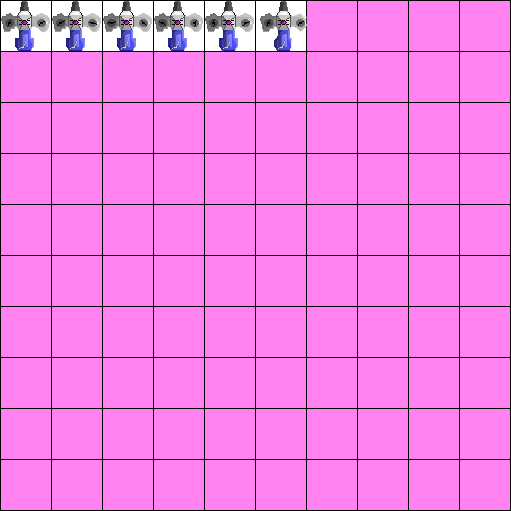
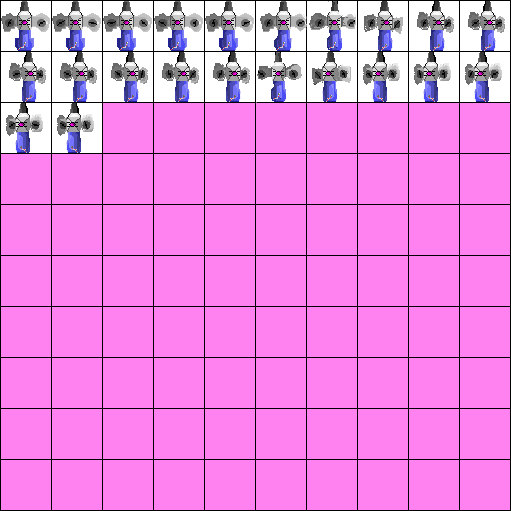
changed player sprite slowed it down moved some stuff around

Changed region(s): [[0.0, 0.0, 0.998, 0.3229]]

diff --git a/Marchgame/org.tuxedofish.marchgame/terrain/Parser.java b/Marchgame/org.tuxedofish.marchgame/terrain/Parser.java
@@ -11,6 +11,8 @@ import javax.imageio.ImageIO;
 import org.lwjgl.opengl.Display;
 import org.lwjgl.util.vector.Vector2f;
 
+import utils.MathUtils;
+
 public class Parser {
 	public ArrayList<Block> parseFile(File lvl, Vector2f pos) {
 		try {
@@ -80,31 +82,95 @@ public class Parser {
 				if(new Color(lvl.getRGB(j, i)).equals(new Color(10, 150, 10))) {
 					blocks.add(new Block(pos.x + ((float)(j*b.getWidth())/Display.getWidth()), pos.y + ((float)(i*b.getHeight())/Display.getHeight()), 14, 50, 50));
 				}
+				if(new Color(lvl.getRGB(j, i)).equals(new Color(185, 255, 255))) {
+					blocks.add(new Block(pos.x + ((float)(j*b.getWidth())/Display.getWidth()), pos.y + ((float)(i*b.getHeight())/Display.getHeight()), 22, 50, 50));
+				}
+				if(new Color(lvl.getRGB(j, i)).equals(new Color(200, 255, 255))) {
+					blocks.add(new Block(pos.x + ((float)(j*b.getWidth())/Display.getWidth()), pos.y + ((float)(i*b.getHeight())/Display.getHeight()), 23, 50, 50));
+				}
+				if(new Color(lvl.getRGB(j, i)).equals(new Color(240, 255, 255))) {
+					blocks.add(new Block(pos.x + ((float)(j*b.getWidth())/Display.getWidth()), pos.y + ((float)(i*b.getHeight())/Display.getHeight()), 24, 50, 50));
+				}
+				if(new Color(lvl.getRGB(j, i)).equals(new Color(180, 255, 255))) {
+					blocks.add(new Block(pos.x + ((float)(j*b.getWidth())/Display.getWidth()), pos.y + ((float)(i*b.getHeight())/Display.getHeight()), 25, 50, 50));
+				}
+				if(new Color(lvl.getRGB(j, i)).equals(new Color(160, 255, 255))) {
+					blocks.add(new Block(pos.x + ((float)(j*b.getWidth())/Display.getWidth()), pos.y + ((float)(i*b.getHeight())/Display.getHeight()), 26, 50, 50));
+				}
+				if(new Color(lvl.getRGB(j, i)).equals(new Color(120, 255, 255))) {
+					blocks.add(new Block(pos.x + ((float)(j*b.getWidth())/Display.getWidth()), pos.y + ((float)(i*b.getHeight())/Display.getHeight()), 27, 50, 50));
+				}
+				if(new Color(lvl.getRGB(j, i)).equals(new Color(80, 255, 255))) {
+					blocks.add(new Block(pos.x + ((float)(j*b.getWidth())/Display.getWidth()), pos.y + ((float)(i*b.getHeight())/Display.getHeight()), 28, 50, 50));
+				}
+				if(new Color(lvl.getRGB(j, i)).equals(new Color(50, 255, 255))) {
+					blocks.add(new Block(pos.x + ((float)(j*b.getWidth())/Display.getWidth()), pos.y + ((float)(i*b.getHeight())/Display.getHeight()), 29, 50, 50));
+				}
+				if(new Color(lvl.getRGB(j, i)).equals(new Color(20, 255, 255))) {
+					blocks.add(new Block(pos.x + ((float)(j*b.getWidth())/Display.getWidth()), pos.y + ((float)(i*b.getHeight())/Display.getHeight()), 30, 50, 50));
+				}
+				if(new Color(lvl.getRGB(j, i)).equals(new Color(255, 160, 160))) {
+					blocks.add(new Block(pos.x + ((float)(j*b.getWidth())/Display.getWidth()), pos.y + ((float)(i*b.getHeight())/Display.getHeight()), 31, 50, 50));
+				}
+				if(new Color(lvl.getRGB(j, i)).equals(new Color(112, 35, 84))) {
+					blocks.add(new Block(pos.x + ((float)(j*b.getWidth())/Display.getWidth()), pos.y + ((float)(i*b.getHeight())/Display.getHeight()), 1, 50, 50));
+					blocks.add(new Block(pos.x + ((float)(j*b.getWidth())/Display.getWidth()), pos.y + ((float)(i*b.getHeight())/Display.getHeight()), 32, 50, 50));
+				}
+				if(new Color(lvl.getRGB(j, i)).equals(new Color(255, 216, 241))) {
+					blocks.add(new Block(pos.x + ((float)(j*b.getWidth())/Display.getWidth()), pos.y + ((float)(i*b.getHeight())/Display.getHeight()), 1, 50, 50));
+					blocks.add(new Block(pos.x + ((float)(j*b.getWidth())/Display.getWidth()), pos.y + ((float)(i*b.getHeight())/Display.getHeight()), 33, 50, 50));
+				}
+				if(new Color(lvl.getRGB(j, i)).equals(new Color(248, 124, 144))) {
+					blocks.add(new Block(pos.x + ((float)(j*b.getWidth())/Display.getWidth()), pos.y + ((float)(i*b.getHeight())/Display.getHeight()), 1, 50, 50));
+					blocks.add(new Block(pos.x + ((float)(j*b.getWidth())/Display.getWidth()), pos.y + ((float)(i*b.getHeight())/Display.getHeight()), 34, 50, 50));
+				}
+				if(new Color(lvl.getRGB(j, i)).equals(new Color(255, 6, 241))) {
+					blocks.add(new Block(pos.x + ((float)(j*b.getWidth())/Display.getWidth()), pos.y + ((float)(i*b.getHeight())/Display.getHeight()), 1, 50, 50));
+					blocks.add(new Block(pos.x + ((float)(j*b.getWidth())/Display.getWidth()), pos.y + ((float)(i*b.getHeight())/Display.getHeight()), 35, 50, 50));
+				}
+				if(new Color(lvl.getRGB(j, i)).equals(new Color(135, 0, 86))) {
+					blocks.add(new Block(pos.x + ((float)(j*b.getWidth())/Display.getWidth()), pos.y + ((float)(i*b.getHeight())/Display.getHeight()), 1, 50, 50));
+					blocks.add(new Block(pos.x + ((float)(j*b.getWidth())/Display.getWidth()), pos.y + ((float)(i*b.getHeight())/Display.getHeight()), 43, 50, 50));
+				}
+				if(new Color(lvl.getRGB(j, i)).equals(new Color(106, 0, 67))) {
+					blocks.add(new Block(pos.x + ((float)(j*b.getWidth())/Display.getWidth()), pos.y + ((float)(i*b.getHeight())/Display.getHeight()), 1, 50, 50));
+					blocks.add(new Block(pos.x + ((float)(j*b.getWidth())/Display.getWidth()), pos.y + ((float)(i*b.getHeight())/Display.getHeight()), 41, 50, 50));
+				}
+				if(new Color(lvl.getRGB(j, i)).equals(new Color(255, 0, 160))) {
+					blocks.add(new Block(pos.x + ((float)(j*b.getWidth())/Display.getWidth()), pos.y + ((float)(i*b.getHeight())/Display.getHeight()), 1, 50, 50));
+					blocks.add(new Block(pos.x + ((float)(j*b.getWidth())/Display.getWidth()), pos.y + ((float)(i*b.getHeight())/Display.getHeight()), 42, 50, 50));
+				}
+				if(new Color(lvl.getRGB(j, i)).equals(new Color(255, 146, 215))) {
+					blocks.add(new Block(pos.x + ((float)(j*b.getWidth())/Display.getWidth()), pos.y + ((float)(i*b.getHeight())/Display.getHeight()), 1, 50, 50));
+					blocks.add(new Block(pos.x + ((float)(j*b.getWidth())/Display.getWidth()), pos.y + ((float)(i*b.getHeight())/Display.getHeight()), 40, 50, 50));
+				}
 			}
 		}
 		float w = 50.0f/Display.getWidth();
 		float h = 50.0f/Display.getHeight();
+		MathUtils u = new MathUtils();
 		for(int i=0; i<blocks.size(); i++) {
 			if(blocks.get(i).getTexid() == 15) {
+				int texid = blocks.get(i).getTexid();
 				boolean left = false, right = false, top = false, bottom = false;
 				for(int k=0; k<blocks.size(); k++) {
-					if(blocks.get(k).getTexid() >= 15 && blocks.get(k).getTexid() <= 21) {
-						if(blocks.get(k).y == blocks.get(i).y) {
-							if(blocks.get(k).x == blocks.get(i).x + w) right = true;
-							if(blocks.get(k).x == blocks.get(i).x - w) left = true;
+					if(blocks.get(k).getTexid() >= texid && blocks.get(k).getTexid() <= texid+6) {
+						if(u.closeEnough(blocks.get(k).y, blocks.get(i).y, 0.001f)) {
+							if(u.closeEnough(blocks.get(k).x, blocks.get(i).x + w, 0.001f)) right = true;
+							if(u.closeEnough(blocks.get(k).x, blocks.get(i).x - w, 0.001f)) left = true;
 						}
-						if(blocks.get(k).x == blocks.get(i).x) {
-							if(blocks.get(k).y == blocks.get(i).y - h) bottom = true;
-							if(blocks.get(k).y == blocks.get(i).y + h) top = true;
+						if(u.closeEnough(blocks.get(k).x, blocks.get(i).x, 0.001f)) {
+							if(u.closeEnough(blocks.get(k).y, blocks.get(i).y - h, 0.001f)) bottom = true;
+							if(u.closeEnough(blocks.get(k).y, blocks.get(i).y + h, 0.001f)) top = true;
 						}
 					}
 				}
-				if(!right && left && bottom && top) {blocks.get(i).setTexID(16);}
-				if(right && !left && bottom && top) {blocks.get(i).setTexID(17);}
-				if(right && !left && !top && bottom) {blocks.get(i).setTexID(18);}
-				if(!right && left && !top && bottom) {blocks.get(i).setTexID(19);}
-				if(!right && left && top && !bottom) {blocks.get(i).setTexID(20);}
-				if(right && !left && top && !bottom) {blocks.get(i).setTexID(21);}
+				if(!right && left && bottom && top) {blocks.get(i).setTexID(texid+1);}
+				if(right && !left && bottom && top) {blocks.get(i).setTexID(texid+2);}
+				if(right && !left && !top && bottom) {blocks.get(i).setTexID(texid+3);}
+				if(!right && left && !top && bottom) {blocks.get(i).setTexID(texid+4);}
+				if(!right && left && top && !bottom) {blocks.get(i).setTexID(texid+5);}
+				if(right && !left && top && !bottom) {blocks.get(i).setTexID(texid+6);}
 			}
 		}
 		return blocks;

diff --git a/Marchgame/org.tuxedofish.marchgame/logic/entities/Player.java b/Marchgame/org.tuxedofish.marchgame/logic/entities/Player.java
@@ -43,6 +43,9 @@ public class Player extends Sprite{
 	private int movement = 0;
 	private SoundHandler sounds = new SoundHandler();
 	private Clip shootsound;
+	private boolean inposition = true;
+	private int speed = 2;
+	private int animastage = 0;
 	
 	public Player(BufferedImage img, int width, int height,
 			TextureHolder th, int currenttexid, Vector2f pos, Controller parent) {
@@ -96,8 +99,6 @@ public class Player extends Sprite{
 				if(!(getPos().y + y > -display.getPos().y + 1.0f) || y <= 0) {
 					if(!(getPos().y - (getHeight()/Display.getHeight()) + y < -display.getPos().y - 0.8f) || y >= 0) {
 							changePos(x, y);
-							changeTexture(5);
-							//display.changepos(-x, -y, 0.0f);
 					}
 				}
 			}
@@ -112,15 +113,60 @@ public class Player extends Sprite{
 				(Math.random()*0.2f)-0.1f), (float)(bullets.get(index).getPos().y + (Math.random()*0.08f)-0.04f)), 0.0f, 70, "explosion"));
 	}
 	public void setMovement(int movement) {
+		if(this.movement != movement) {
+			this.inposition = false;
+			currenttex = 0;
+		}
 		this.movement = movement;
 	}
 	public void render(ShaderHandler sh, DisplaySetup d, DataUtils util) {
-		if(currenttex<4) {
-			changeTexture((movement*5)+currenttex);
-			currenttex+=1;
+		if(animastage >= speed) {
+			if(movement == 0) {
+				if(currenttex<4) {
+					changeTexture(currenttex);
+					currenttex+=1;
+				} else {
+					changeTexture(currenttex);
+					currenttex = 0;
+				}
+			} else if(movement == 2) {
+				if(!inposition) {
+					changeTexture(5 + currenttex);
+					currenttex += 1;
+					if(currenttex == 3) {
+						inposition = true;
+						currenttex = 0;
+					}
+				} else {
+					if(currenttex < 6) {
+						changeTexture(8 + currenttex);
+						currenttex += 1;
+					} else {
+						changeTexture(8 + currenttex);
+						currenttex = 0;
+					}
+				}
+			} else {
+				if(!inposition) {
+					changeTexture(15 + currenttex);
+					currenttex += 1;
+					if(currenttex == 3) {
+						inposition = true;
+						currenttex = 0;
+					}
+				} else {
+					if(currenttex < 4) {
+						changeTexture(17 + currenttex);
+						currenttex += 1;
+					} else {
+						changeTexture(17 + currenttex);
+						currenttex = 0;
+					}
+				}
+			}
+			animastage = 0;
 		} else {
-			changeTexture((movement*5)+currenttex);
-			currenttex = 0;
+			animastage += 1;
 		}
 		if(stage >= 35) {
 			stage = 0;

diff --git a/Marchgame/org.tuxedofish.marchgame/logic/entities/Bullet.java b/Marchgame/org.tuxedofish.marchgame/logic/entities/Bullet.java
@@ -1,6 +1,7 @@
 package logic.entities;
 
 import java.awt.Polygon;
+import java.awt.geom.Line2D;
 import java.awt.geom.Rectangle2D;
 
 import org.lwjgl.opengl.Display;
@@ -19,15 +20,16 @@ public class Bullet {
 	private int lastage = 0;
 	private float radius;
 	private String type;
-	private Rectangle2D bounds;
+	private Line2D bounds;
 	
 	public Bullet(Vector2f pos, float rot, float radius, String type) {
 		this.rot = rot;
 		this.pos = pos;
 		this.radius = radius/Display.getWidth();
 		this.type = type;
-		this.bounds = new Rectangle2D.Float();
-		this.bounds.setRect((pos.x+1.0f)*(Display.getWidth()/2.0f), (pos.y+1.0f)*(Display.getHeight()/2.0f), radius*2.0f, radius*2.0f);
+		this.bounds = new Line2D.Float();
+		this.bounds.setLine((this.pos.x+1.0f)*(Display.getWidth()/2.0f), (this.pos.y+1.0f)*(Display.getHeight()/2.0f), 
+				(this.pos.x+1.0f)*(Display.getWidth()/2.0f), (this.pos.y+1.0f)*(Display.getHeight()/2.0f));
 	}
 	public String getType() {
 		return type;
@@ -75,8 +77,9 @@ public class Bullet {
 		this.texid = texid;
 	}
 	public void setPos(Vector2f pos) {
+		this.bounds.setLine((this.pos.x+1.0f)*(Display.getWidth()/2.0f), (this.pos.y+1.0f)*(Display.getHeight()/2.0f), 
+				(pos.x+1.0f)*(Display.getWidth()/2.0f), (pos.y+1.0f)*(Display.getHeight()/2.0f));
 		this.pos = pos;
-		this.bounds.setRect((pos.x+1.0f)*(Display.getWidth()/2.0f), (pos.y+1.0f)*(Display.getHeight()/2.0f), radius*2.0f, radius*2.0f);
 	}
 	public int getTexid() {
 		return texid;
@@ -94,7 +97,18 @@ public class Bullet {
 					(int)(((pos.y+1.0f)*(Display.getHeight()/2.0f))-polygon.ypoints[i]));
 		}
 		if(!destroyingself) {
-			return polygon2.contains(this.bounds);
+			boolean intersect = false;
+			for (int i = 0; i < polygon2.npoints - 1; i++) {
+			   intersect = this.bounds.intersectsLine(polygon2.xpoints[i], polygon2.ypoints[i], polygon2.xpoints[i+1], polygon2.ypoints[i+1]);
+			   if (intersect) {
+			      break;
+			   }
+			}
+			if (!intersect) {
+			   intersect =  this.bounds.intersectsLine(polygon2.xpoints[polygon2.npoints - 1], polygon2.ypoints[polygon2.npoints - 1], 
+					   polygon2.xpoints[0], polygon2.ypoints[0]);
+			}
+			return intersect;
 		} else {
 			return false;
 		}

diff --git a/Marchgame/org.tuxedofish.marchgame/logic/entities/BulletHandler.java b/Marchgame/org.tuxedofish.marchgame/logic/entities/BulletHandler.java
@@ -122,11 +122,20 @@ public class BulletHandler extends ArrayList<Bullet>{
 				bullet.changePos(get(i).getPos().x-bpos.x, get(i).getPos().y-bpos.y);
 				bpos = new Vector2f(get(i).getPos().x, get(i).getPos().y);
 				bullet.render(sh, util, 0);
+				if(!get(i).getDestroying()) {
+					if(get(i).contains(player.getPos(), (float)player.getWidth()/Display.getWidth(), (float)player.getHeight()/Display.getHeight(), d)) {
+						get(i).setDestroyingSelf(true);
+						explosions.add(new Bullet(get(i).getPos(), 0.0f, 70, "explosion"));
+						explosions.add(new Bullet(new Vector2f((float)(get(i).getPos().x + (Math.random()*0.2f)-0.1f), (float)(get(i).getPos().y + (Math.random()*0.08f)-0.04f)), 0.0f, 70, "explosion"));
+						explosions.add(new Bullet(new Vector2f((float)(get(i).getPos().x + (Math.random()*0.2f)-0.1f), (float)(get(i).getPos().y + (Math.random()*0.08f)-0.04f)), 0.0f, 70, "explosion"));
+						parent.damage(5);
+					}
+				}
 			}
 		}
 	}
 	public void shootlaser(Vector2f pos) {
-		for(int i=0; i<15; i++) {
+		for(int i=0; i<20; i++) {
 			add(new Bullet(new Vector2f(pos.x+0.025f, pos.y - i*0.08f), 0, 20, "laser"));
 			bullet.changeTexture(12);
 		}

diff --git a/Marchgame/org.tuxedofish.marchgame/start/Controller.java b/Marchgame/org.tuxedofish.marchgame/start/Controller.java
@@ -430,6 +430,7 @@ public class Controller {
 		ih.clearElements();
 		markers.add(gui.newMarker("marker", new Vector2f(0.5f, 0.0f), 20, 20, ih, this, "level 1", ct.addTimeStep(100), 4));
 		markers.add(gui.newMarker("marker", new Vector2f(0.0f, 0.0f), 20, 20, ih, this, "level 2", ct.addTimeStep(100), 4));
+		markers.add(gui.newMarker("marker", new Vector2f(-0.5f, 0.5f), 20, 20, ih, this, "level 3", ct.addTimeStep(100), 4));
 		elements = true;
 	}
 	public void update(int update, int index) {
@@ -531,8 +532,8 @@ public class Controller {
 		util.begin(sh, d);
 		
 		if((d.getPos().y + 0.25f > levelheight*-1)) {
-			display.changepos(0.0f, -0.005f, 0.0f);
-			player.changePos(0.0f, 0.005f);
+			display.changepos(0.0f, -0.0025f, 0.0f);
+			player.changePos(0.0f, 0.0025f);
 			for(int i=0; i<enemies.size(); i++) {
 				enemies.get(i).scroll();
 			}

diff --git a/Marchgame/org.tuxedofish.marchgame/logic/entities/EnemyLoader.java b/Marchgame/org.tuxedofish.marchgame/logic/entities/EnemyLoader.java
@@ -137,7 +137,7 @@ public class EnemyLoader extends Thread{
 						340, 500, new Vector2f(-0.9f, 5.0f), 100, gp.parseGrid(images.getImage("building3.png"), 167, 250));
 				Building b2 = new Building(images.getImage("building3.png"), player.getBullets(), parent, 
 						340, 500, new Vector2f(-0.9f, 2.0f), 100, gp.parseGrid(images.getImage("building3.png"), 167, 250));
-				Building b3 = new Building(images.getImage("tree.png"), player.getBullets(), parent, 
+				Building b3 = new Building(images.getImage("tree2.png"), player.getBullets(), parent, 
 						200, 200, new Vector2f(0.0f, 2.0f), 100, gp.parseGrid(images.getImage("tree.png"), 100, 100));
 				buildings.add(b); buildings.add(b2); buildings.add(b3);
 				

diff --git a/Marchgame/org.tuxedofish.marchgame/logic/entities/Enemy.java b/Marchgame/org.tuxedofish.marchgame/logic/entities/Enemy.java
@@ -248,7 +248,7 @@ public class Enemy extends Sprite{
 	}
 	public void scroll() {
 		if(scroll) {
-			this.changePos(0.0f, 0.005f);
+			this.changePos(0.0f, 0.0025f);
 		}
 	}
 	public int getThreadID() {
@@ -346,7 +346,7 @@ public class Enemy extends Sprite{
 				if(playerbullets.get(i).contains(this.getPos(), collisions.get(texid), d)
 						&& !playerbullets.get(i).getDestroying()) {
 					parent.bulletexplode(i);
-					health -= 1;
+					health -= 2;
 					hit = 1;
 					if(health <= 0 && !stopped) {
 						SoundHandler.playSound(explosionsound);

diff --git a/Marchgame/org.tuxedofish.marchgame/utils/MathUtils.java b/Marchgame/org.tuxedofish.marchgame/utils/MathUtils.java
@@ -133,4 +133,11 @@ public class MathUtils {
 		}
 		return dest;
 	}
+	public boolean closeEnough(float a, float b, float giveortake) {
+		if(a < b+giveortake && a > b-giveortake) {
+			return true;
+		} else {
+			return false;
+		}
+	}
 }
